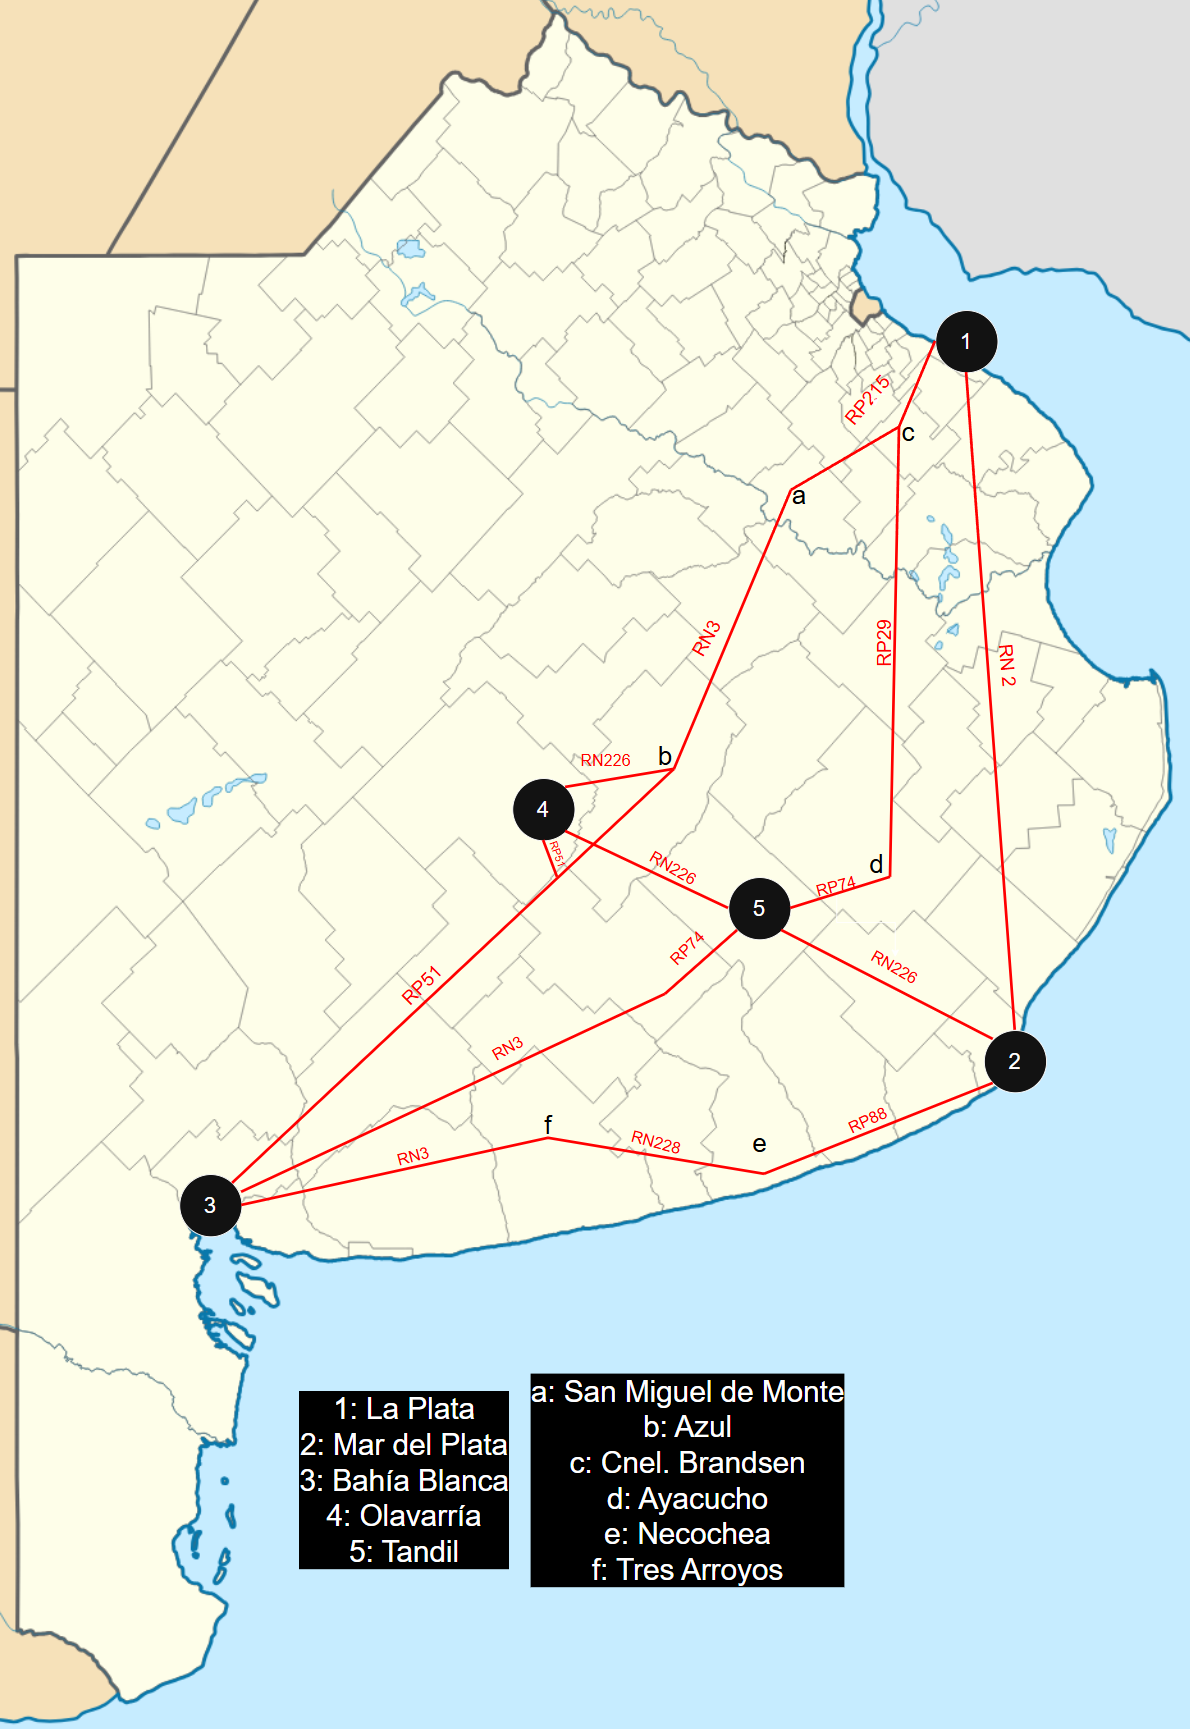
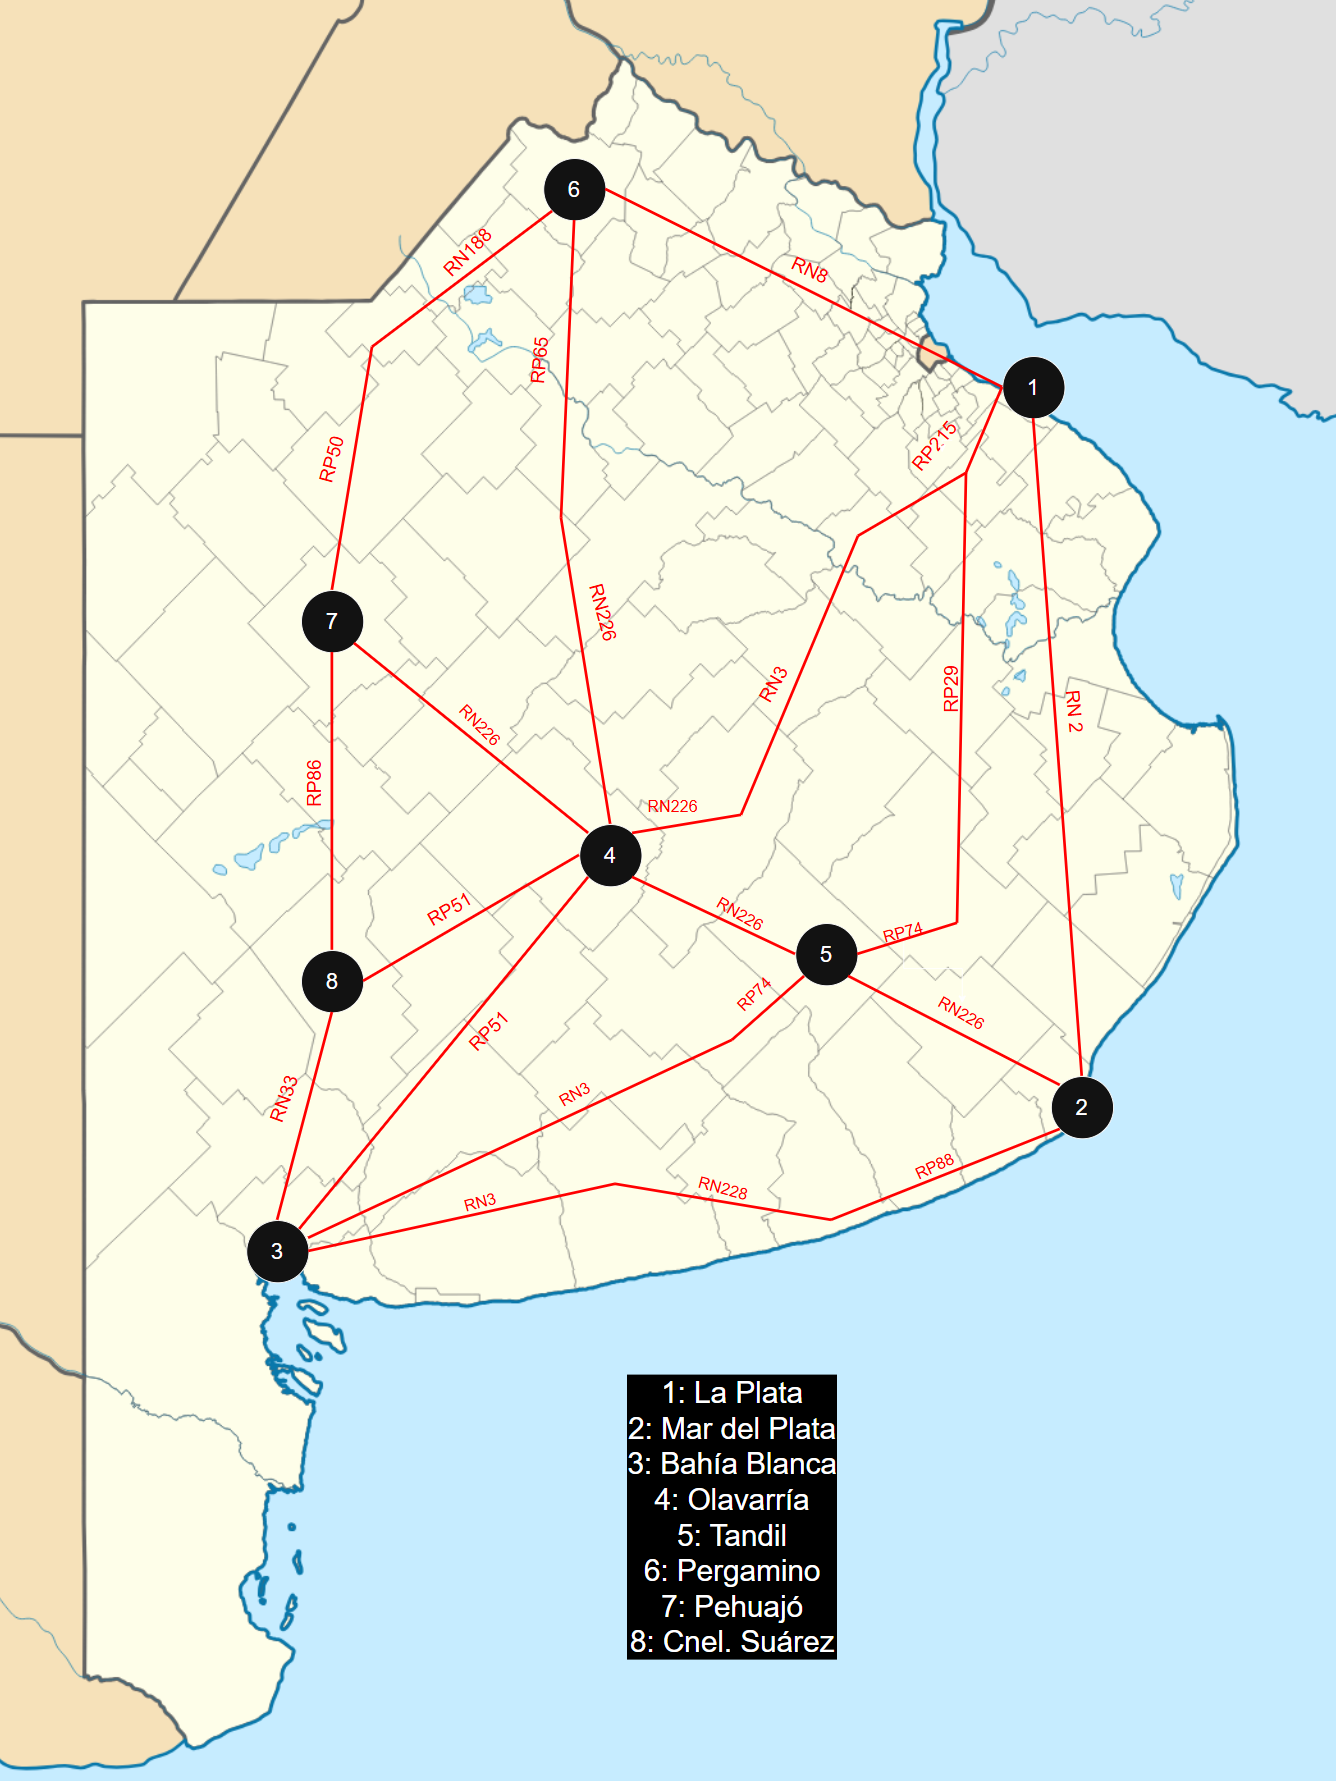
Documentación de nuevos nodos
Para cumplir con la consigna, se añadieron tres nuevos nodos que el usuario podrá seleccionar para dar de alta dinámicamente durante el programa. Este commit solo contiene la documentación, los cambios en el código estarán en el próximo commit.

diff --git a/docs/nodos_conexiones.md b/docs/nodos_conexiones.md
@@ -53,6 +53,27 @@ Coordenadas:
 - Latitud: -36.89
 - Longitud: -60.32
 
+_Nodos extra (catálogo)_
+
+Con el propósito de cumplir con la consigna (el usuario debe ser capaz de dar de alta nodos nuevos), se agregó un catálogo de nodos extra de los cuales el usuario podrá seleccionar el que desee para dar de alta. Esto debido a que para añadir dinámicamente nodos y sus rutas al programa, se requeriría el uso de alguna API, lo cual excede el contenido de la materia y del proyecto.
+
+Dicho esto, los nodos agregados son los siguientes:
+
+**Pergamino**: Polo agroindustrial, gran movimiento de granos.
+
+- Latitud: -33.89
+- Longitud: -60.57
+
+**Pehuajó**: Nodo agroindustrial del centro-oeste, importante movimiento de granos y ganado.
+
+- Latitud: -35.85
+- Longitud: -61.90
+
+**Coronel Suárez**: Nodo agroindustrial del sudoeste bonaerense.
+
+- Latitud: -37.46
+- Longitud: -61.93
+
 ![Ver nodos](./assets/nodos.png)
 
 **_Conexiones_**
@@ -63,43 +84,67 @@ La Plata conexión a Mar del Plata mediante RN2, 370km.
 
 **La Plata - Tandil**
 
-La Plata conexión a Tandil mediante RP215 hasta km38 (Cnel. Brandsen), luego RP29 hasta km282 (Ayacucho) y la RP74 hasta km333, y un último corto tramo hasta Tandil para un total de 347km.
+La Plata conexión a Tandil mediante RP215, RP29 y RP74, 347km.
 
 **La Plata - Olavarría**
 
-La Plata conexión a Olavarria mediante RP215 hasta km100 (San Miguel de Monte), luego RN3 hasta km300 (Azul), donde se toma la RN226 hasta Olavarría, 345km.
-
-**La Plata - Bahía Blanca**
-
-La Plata conexión a Bahía Blanca mediante RP215 hasta km99 (San Miguel de Monte), donde se tomará la RN3 hasta km296 (Azul), seguida de la RP51 hasta Bahía Blanca, 627km.
+La Plata conexión a Olavarria mediante RP215, RN3 y RN226, 345km.
 
 **Tandil - Mar del Plata**
 
-Tandil conexión a Mar del Plata mediante RN226 directo hasta Mar del Plata, 171km.
+Tandil conexión a Mar del Plata mediante RN226, 171km.
 
 **Tandil - Olavarría**
 
-Tandil conexión a Olavarría mediante RN226 directo hasta Olavarría, 135km.
+Tandil conexión a Olavarría mediante RN226, 135km.
 
 **Tandil - Bahía Blanca**
 
-Tandil conexión a Bahía Blanca mediante RP74 hasta km85 y luego RN3 hasta Bahía Blanca, 370km.
+Tandil conexión a Bahía Blanca mediante RP74 y RN3, 370km.
 
 **Mar del Plata - Bahía Blanca**
 
-Mar del Plata conexión a Bahía Blanca mediante RP88 hasta km124 (Necochea), luego RN228 hasta km271 (Tres Arroyos) y luego RN3 hasta Bahía Blanca,
+Mar del Plata conexión a Bahía Blanca mediante RP88, RN228 y RN3, 465km.
 
 **Olavarría - Bahía Blanca**
 
-Olavarría conexión a Bahía Blanca mediante RP51 directo hasta Bahía Blanca, 298km.
+Olavarría conexión a Bahía Blanca mediante RP51, 298km.
 
 **Olavarría - Mar del Plata**
 
-Olavarría conexión a Mar del Plata mediante RN226 directo hasta Mar del Plata, 305km.
+Olavarría conexión a Mar del Plata mediante RN226, 305km.
+
+**Pergamino - La Plata**
+
+Pergamino conexión La Plata mediante RN8, 287km.
+
+**Pergamino - Pehuajó**
+
+Pergamino conexión La Plata mediante RN188 y RP50, 298km.
+
+**Pergamino - Olavarría**
+
+Pergamino conexión Olavarría mediante RP65 y RN226, 400km.
+
+**Pehuajó - Cnel. Suárez**
+
+Pehuajó conexión Cnel. Suárez mediante RP86, 248km.
+
+**Pehuajó - Olavarría**
+
+Pehuajó conexión Olavarría mediante RN226, 196km.
+
+**Cnel. Suárez - Olavarría**
+
+Cnel. Suárez conexión Olavarría mediante RP51, 188km.
+
+**Cnel. Suárez - Bahía Blanca**
+
+Cnel. Suárez conexión Bahía Blanca mediante RN33, 182km.
 
 ![Ver rutas](./assets/rutas.png)
 
-Si bien se especifican las rutas que toma cada camino y las localidades intermedias, esto es más que nada para entender y visualizar mejor los caminos existentes. A la hora de realizar los cálculos para decidir el camino más corto, se tomará todo el conjunto de rutas que constituye el camino como una sola línea, y no se tendrán en cuenta las localidades intermedias ni se les tratará como nodos individuales.
+Si bien se especifican las rutas que toma cada camino, esto es más que nada para entender y visualizar mejor los caminos existentes. A la hora de realizar los cálculos para decidir el camino más corto, se tomará todo el conjunto de rutas que constituye el camino como una sola línea.
 
 ![Ver grafo](./assets/grafo.png)
 
@@ -112,15 +157,21 @@ A continuación se resumirá la información necesaria de este documento en tabl
 | _La Plata_      | \-34.92     | \-57.95      |
 | _Mar del Plata_ | \-37.99     | \-57.55      |
 | _Bahía Blanca_  | \-36.71     | \-62.27      |
-| _Tandil_        | \-36.89     | \-60.32      |
 | _Olavarría_     | \-37.33     | \-59.15      |
+| _Tandil_        | \-36.89     | \-60.32      |
+| _Pergamino_     | \-33.89     | \-60.57      |
+| _Pehuajó_       | \-35.85     | \-61.90      |
+| _Cnel. Suárez_  | \-37.46     | \-61.93      |
 
 **_Matriz de adyacencia_**
 
-|       | **1** | **2** | **3** | **4** | **5** |
-| ----- | ----- | ----- | ----- | ----- | ----- |
-| **1** | 0     | 370   | ∞     | 345   | 347   |
-| **2** | 370   | 0     | 465   | ∞     | 171   |
-| **3** | ∞     | 465   | 0     | 298   | 370   |
-| **4** | 345   | ∞     | 298   | 0     | 135   |
-| **5** | 347   | 171   | 370   | 135   | 0     |
+|       | **1** | **2** | **3** | **4** | **5** | **6** | **7** | **8** |
+| ----- | ----- | ----- | ----- | ----- | ----- | ----- | ----- | ----- |
+| **1** | 0     | 370   | ∞     | 345   | 347   | 287   | ∞     | ∞     |
+| **2** | 370   | 0     | 465   | ∞     | 171   | ∞     | ∞     | ∞     |
+| **3** | ∞     | 465   | 0     | 298   | 370   | ∞     | ∞     | 183   |
+| **4** | 345   | ∞     | 298   | 0     | 135   | 400   | 196   | 188   |
+| **5** | 347   | 171   | 370   | 135   | 0     | ∞     | ∞     | ∞     |
+| **6** | 287   | ∞     | ∞     | 400   | ∞     | 0     | 298   | ∞     |
+| **7** | ∞     | ∞     | ∞     | 196   | ∞     | 298   | 0     | 248   |
+| **8** | ∞     | ∞     | 183   | 188   | ∞     | ∞     | 248   | 0     |